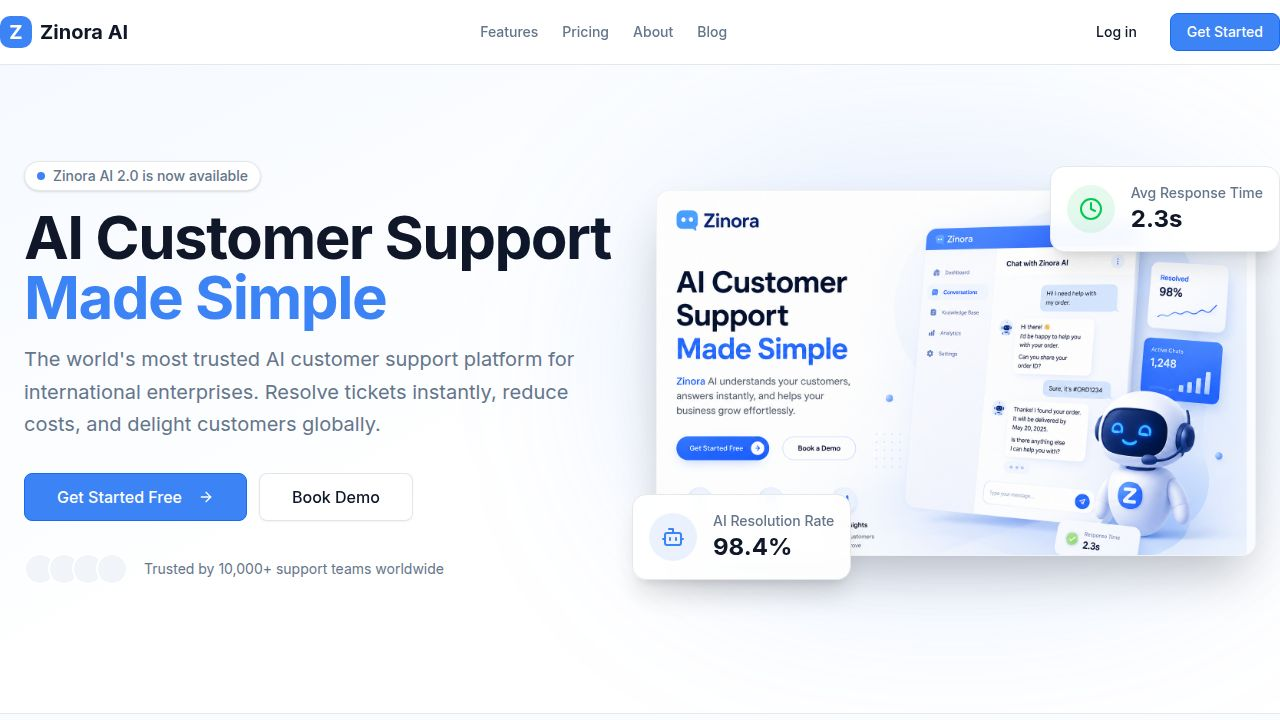
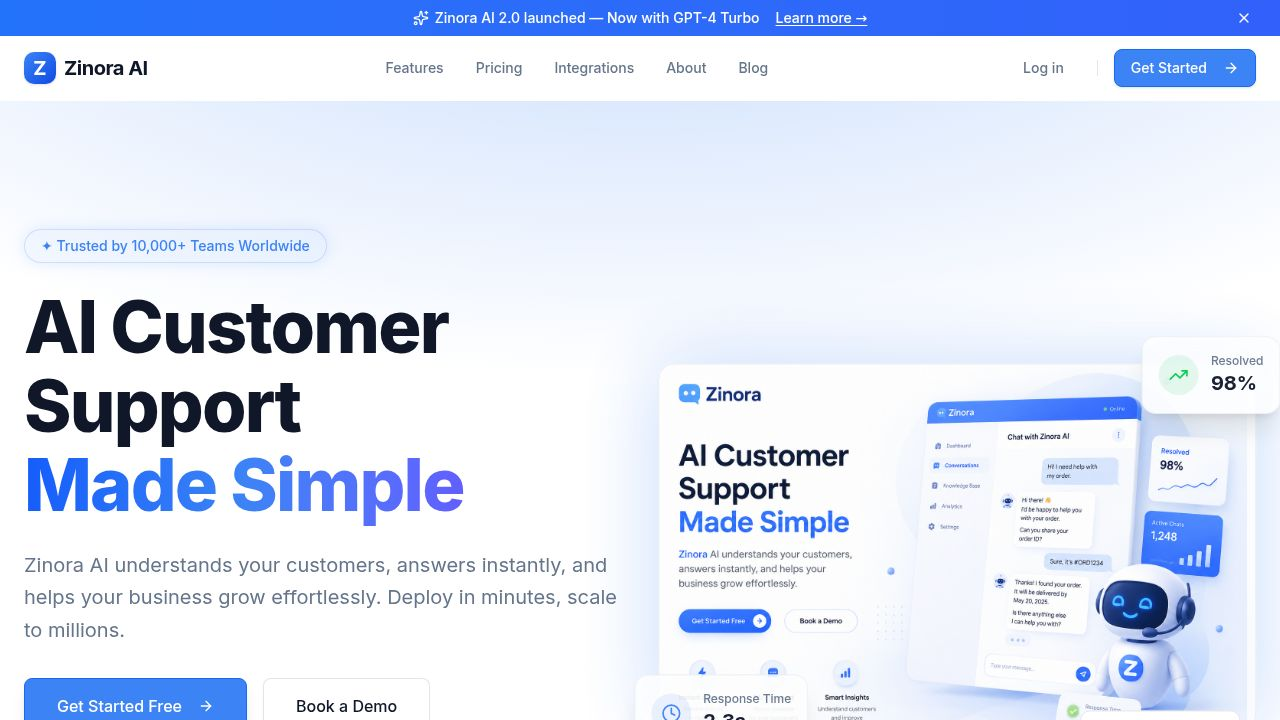
Remove workspace dependencies and prepare project for deployment
Update package.json and configuration files to remove workspace-specific dependencies and plugins, adjust build output paths, and configure Vercel deployment settings.

Replit-Commit-Author: Agent
Replit-Commit-Session-Id: fc7fa27b-b9ca-4cf2-94a6-fe3020652e52
Replit-Commit-Checkpoint-Type: full_checkpoint
Replit-Commit-Event-Id: 3e97c981-e5ee-4f68-80bb-a3e3c0513e31
Replit-Commit-Screenshot-Url: https://storage.googleapis.com/screenshot-production-us-central1/6895cf2c-0e01-4760-9021-9e2431b60927/fc7fa27b-b9ca-4cf2-94a6-fe3020652e52/m0HZ1yJ
Replit-Helium-Checkpoint-Created: true

diff --git a/artifacts/zinora-ai/vite.config.ts b/artifacts/zinora-ai/vite.config.ts
@@ -2,41 +2,23 @@ import { defineConfig } from "vite";
 import react from "@vitejs/plugin-react";
 import tailwindcss from "@tailwindcss/vite";
 import path from "path";
-import runtimeErrorOverlay from "@replit/vite-plugin-runtime-error-modal";
 
 const port = Number(process.env.PORT ?? 5173);
 const basePath = process.env.BASE_PATH ?? "/";
 
 export default defineConfig({
   base: basePath,
-  plugins: [
-    react(),
-    tailwindcss(),
-    runtimeErrorOverlay(),
-    ...(process.env.NODE_ENV !== "production" &&
-    process.env.REPL_ID !== undefined
-      ? [
-          await import("@replit/vite-plugin-cartographer").then((m) =>
-            m.cartographer({
-              root: path.resolve(import.meta.dirname, ".."),
-            }),
-          ),
-          await import("@replit/vite-plugin-dev-banner").then((m) =>
-            m.devBanner(),
-          ),
-        ]
-      : []),
-  ],
+  plugins: [react(), tailwindcss()],
   resolve: {
     alias: {
       "@": path.resolve(import.meta.dirname, "src"),
-      "@assets": path.resolve(import.meta.dirname, "..", "..", "attached_assets"),
+      "@assets": path.resolve(import.meta.dirname, "src/assets"),
     },
     dedupe: ["react", "react-dom", "framer-motion", "wouter"],
   },
   root: path.resolve(import.meta.dirname),
   build: {
-    outDir: path.resolve(import.meta.dirname, "dist/public"),
+    outDir: path.resolve(import.meta.dirname, "dist"),
     emptyOutDir: true,
   },
   server: {
@@ -44,9 +26,6 @@ export default defineConfig({
     strictPort: true,
     host: "0.0.0.0",
     allowedHosts: true,
-    fs: {
-      strict: true,
-    },
   },
   preview: {
     port,